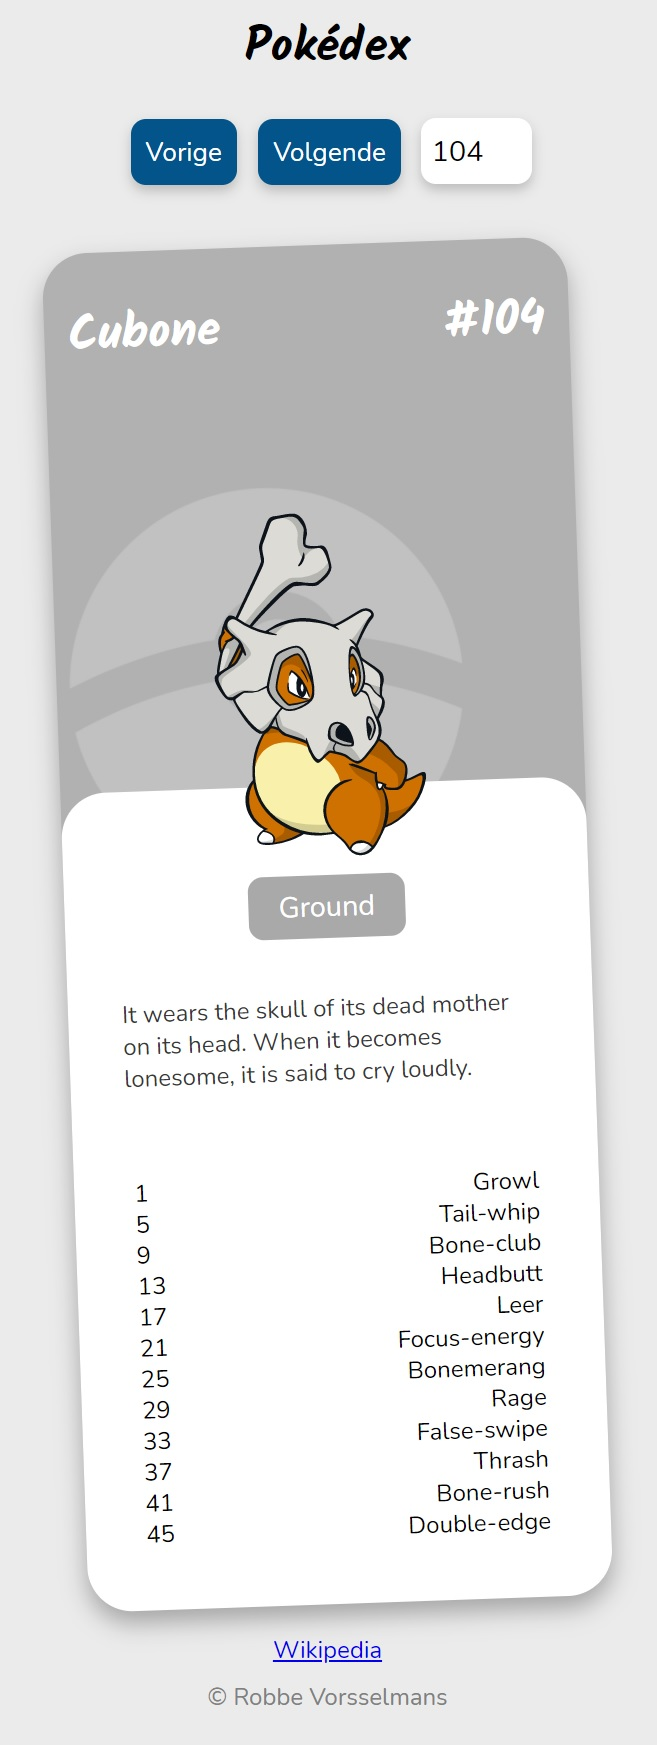
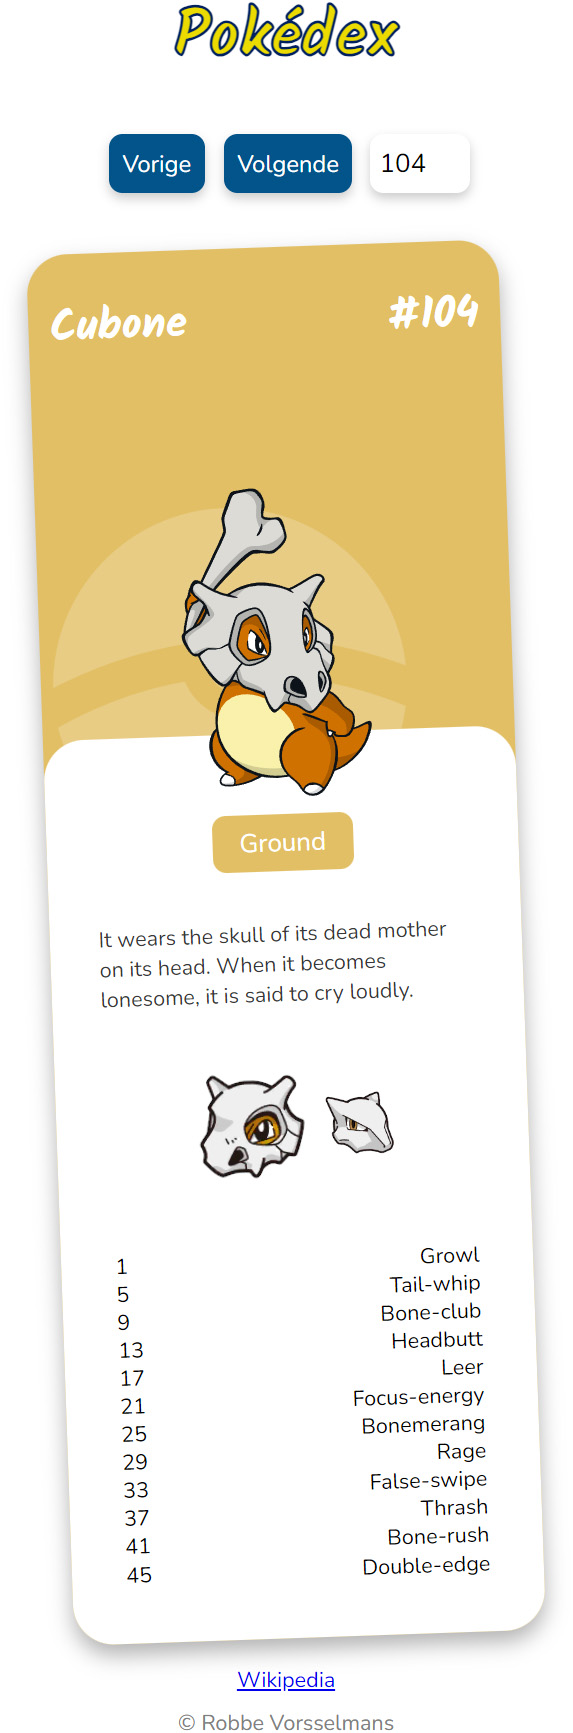
added spirtes for evolution chains

diff --git a/pokemon.js b/pokemon.js
@@ -1,91 +1,153 @@
 let app = new Vue({
-    el: '#vue',
-    name: "Pokemon",
-    data() {
-        return {
-            id: 104,
-            pokemon: null
-        }
+  el: "#vue",
+  name: "Pokemon",
+  data() {
+    return {
+      id: 104,
+      pokemon: null,
+      chain: [],
+      typeColours: {
+        normal: "#A8A77A",
+        fire: "#EE8130",
+        water: "#6390F0",
+        electric: "#F7D02C",
+        grass: "#7AC74C",
+        ice: "#96D9D6",
+        fighting: "#C22E28",
+        poison: "#A33EA1",
+        ground: "#E2BF65",
+        flying: "#A98FF3",
+        psychic: "#F95587",
+        bug: "#A6B91A",
+        rock: "#B6A136",
+        ghost: "#735797",
+        dragon: "#6F35FC",
+        dark: "#705746",
+        steel: "#B7B7CE",
+        fairy: "#D685AD",
+      },
+    };
+  },
+  computed: {
+    name() {
+      if (!this.pokemon) return;
+      const name = this.pokemon.name;
+      return this.capitalize(name) || "Onbekend";
     },
-    computed: {
-        name() {
-            if (!this.pokemon) return
-            const name = this.pokemon.name;
-            return this.capitalize(name) || 'Onbekend'
-        },
-        types() {
-            return this.pokemon && this.pokemon.types.map(t => t.type.name)
-        },
-        type() {
-            return this.pokemon && this.types[0] || 'Onbekend'
-        },
-        height() {
-            if (!this.pokemon) return
-            const dm = this.pokemon.height
-            let str = (dm / 10).toString()
-            str = str.replaceAll(".", ",");
-            str = str + " m"
-            return str
-        },
-        color() {
-            return this.pokemon && this.pokemon.color.name || 'Onbekend'
-        },
-        spriteUrl() {
-            return this.pokemon && this.pokemon.sprites.other.dream_world.front_default || ""
-        },
-        moves() {
-            if (!this.pokemon) return
-            let levelMoves = []
-            let allMoves = this.pokemon.moves
-            allMoves.forEach(move => {
-                const moveFr = move.version_group_details.find(m => m.version_group.name == "firered-leafgreen")
-                if (moveFr && moveFr.level_learned_at > 0) {
-                    levelMoves.push({ level: moveFr.level_learned_at, name: move.move.name })
-                }
-            });
-            // opgave: eerste 5 aanvallen weergeven
-            if (levelMoves.length < 5) {
-                for (let i = levelMoves.length; i < 5; i++) {
-                    levelMoves.push({ level: 99, name: "Onbekend" })
-                }
-            }
-            return levelMoves.sort((a, b) => a.level - b.level)
-        },
-        flavor() {
-            if (!this.pokemon) return
-            let flavor = this.pokemon.flavor_text_entries.find(fl => fl.version.name == "firered" && fl.language.name == "en")
-            return flavor && flavor.flavor_text || "Geen info"
-        }
+    types() {
+      return this.pokemon && this.pokemon.types.map((t) => t.type.name);
     },
-    methods: {
-        async getPokemon(id) {
-            id = Math.min(Math.max(1, id), 649)
-            const url = `https://pokeapi.co/api/v2/pokemon/${id}`;
-            const res = await fetch(url)
-            const pokemon = res.ok && await res.json()
-            console.log('Pokémon data (p):', pokemon);
-            const urlSpec = `https://pokeapi.co/api/v2/pokemon-species/${id}`;
-            const resSpec = await fetch(urlSpec)
-            const species = resSpec.ok && await resSpec.json()
-            this.pokemon = Object.assign(pokemon, species);
-            this.id = id;
+    type() {
+      return (this.pokemon && this.types[0]) || "Onbekend";
+    },
+    height() {
+      if (!this.pokemon) return;
+      const dm = this.pokemon.height;
+      let str = (dm / 10).toString();
+      str = str.replaceAll(".", ",");
+      str = str + " m";
+      return str;
+    },
+    color() {
+      return (this.pokemon && this.pokemon.color.name) || "Onbekend";
+    },
+    spriteUrl() {
+      return (
+        (this.pokemon &&
+          this.pokemon.sprites.other.dream_world.front_default) ||
+        ""
+      );
+    },
+    moves() {
+      if (!this.pokemon) return;
+      let levelMoves = [];
+      let allMoves = this.pokemon.moves;
+      allMoves.forEach((move) => {
+        const moveFr = move.version_group_details.find(
+          (m) => m.version_group.name == "firered-leafgreen"
+        );
+        if (moveFr && moveFr.level_learned_at > 0) {
+          levelMoves.push({
+            level: moveFr.level_learned_at,
+            name: move.move.name,
+          });
+        }
+      });
+      // opgave: eerste 5 aanvallen weergeven
+      if (levelMoves.length < 5) {
+        for (let i = levelMoves.length; i < 5; i++) {
+          levelMoves.push({ level: 99, name: "Onbekend" });
+        }
+      }
+      return levelMoves.sort((a, b) => a.level - b.level);
+    },
+    flavor() {
+      if (!this.pokemon) return;
+      let flavor = this.pokemon.flavor_text_entries.find(
+        (fl) => fl.version.name == "firered" && fl.language.name == "en"
+      );
+      return (flavor && flavor.flavor_text) || "Geen info";
+    },
+    typeColor() {
+      return this.typeColours[this.type] || "#777";
+    },
+  },
+  methods: {
+    async getPokemon(id) {
+      id = Math.min(Math.max(1, id), 649);
+      const url = `https://pokeapi.co/api/v2/pokemon/${id}`;
+      const res = await fetch(url);
+      const pokemon = res.ok && (await res.json());
+      console.log("Pokémon data:", pokemon);
+      const urlSpec = `https://pokeapi.co/api/v2/pokemon-species/${id}`;
+      const resSpec = await fetch(urlSpec);
+      const species = resSpec.ok && (await resSpec.json());
+      this.pokemon = Object.assign(pokemon, species);
+      this.id = id;
+      this.chain = await this.getChain(pokemon);
 
-            const card = document.querySelector('.card')
-            card && card.style.setProperty('--card-bg', pokemon.color.name)
-        },
-        capitalize(word) {
-            return word && word[0].toUpperCase() + word.slice(1);
-        },
-        next() {
-            this.id++;
-            this.getPokemon(this.id);
-        },
-        prev() {
-            this.id--;
-            this.getPokemon(this.id);
-        }
+      const card = document.querySelector(".card");
+      card && card.style.setProperty("--card-bg", pokemon.color.name);
     },
-    mounted() {
-        this.getPokemon(this.id)
-    }
-})
+    async getChain(pokemon) {
+      const getIndex = (url) => {
+        const numbers = url.match(/\d+/g);
+        if (numbers && numbers.length > 0) {
+          return parseInt(numbers[numbers.length - 1]);
+        }
+        return null;
+      };
+      const chainUrl = pokemon.evolution_chain?.url;
+      const resChain = await fetch(chainUrl);
+      let chainObj = resChain.ok && (await resChain.json())?.chain;
+      let id = getIndex(chainObj.species.url);
+      const chain = [id];
+      while (chainObj.evolves_to.length > 0) {
+        // for necessary for eevee
+        for (let i = 0; i < chainObj.evolves_to.length; i++) {
+          evo = chainObj.evolves_to[i];
+          chain.push(getIndex(evo.species.url));
+        }
+        chainObj = chainObj.evolves_to[0];
+      }
+      return chain.filter((id) => id <= 151);
+    },
+    capitalize(word) {
+      return word && word[0].toUpperCase() + word.slice(1);
+    },
+    next() {
+      this.id++;
+      this.getPokemon(this.id);
+    },
+    prev() {
+      this.id--;
+      this.getPokemon(this.id);
+    },
+    getTypeColor(type) {
+      return this.typeColours[type] || "#777";
+    },
+  },
+  mounted() {
+    this.getPokemon(this.id);
+  },
+});

diff --git a/index.html b/index.html
@@ -1,60 +1,63 @@
 <!DOCTYPE html>
 <html lang="en">
-
-<head>
-    <meta charset="UTF-8">
-    <meta name="viewport" content="width=device-width, initial-scale=1.0">
+  <head>
+    <meta charset="UTF-8" />
+    <meta name="viewport" content="width=device-width, initial-scale=1.0" />
     <title>Pokédex</title>
-    <p>Updated using Visual Code</p>
     <script src="https://cdn.jsdelivr.net/npm/vue@2/dist/vue.js"></script>
     <script defer src="pokemon.js"></script>
-    <link rel="stylesheet" href="style.css">
-    <link rel="preconnect" href="https://fonts.gstatic.com">
-    <link href="https://fonts.googleapis.com/css2?family=Kalam:wght@400;700&family=Nunito:wght@200;400&display=swap" rel="stylesheet">
-</head>
+    <link rel="stylesheet" href="style.css" />
+    <link rel="preconnect" href="https://fonts.gstatic.com" />
+    <link
+      href="https://fonts.googleapis.com/css2?family=Kalam:wght@400;700&family=Nunito:wght@200;400&display=swap"
+      rel="stylesheet"
+    />
+  </head>
 
-<body>
+  <body>
     <div id="vue">
-        <header>
-            <h1>Pokédex</h1>
-            <nav class="bar">
-                <button @click="prev">Vorige</button>
-                <button @click="next">Volgende</button>
-                <input type="number" v-model="id" @input="getPokemon(id)">
-            </nav>
-        </header>
-        <main class="card">
-            <div class="container">
-                <h2>
-                    <span>{{ name }}</span>
-                    <span style="float: right;">#{{String(id).padStart(3, '0')}}</span>
-                </h2>
-                <img :src="spriteUrl" :alt="name" class="sprite">
-            </div>
-            <div class="info">
-                <div class="types">
-                    <span v-for="type in types">
-                        {{capitalize(type)}}
-                    </span>
-                </div>
-                <div class="flavor">
-                    {{flavor}}
-                </div>
-                <div class="moves">
-                    <div v-for="m in moves">
-                        <span>{{m.level}}</span>
-                        <span>{{capitalize(m.name)}}</span>
-                    </div>
-                </div>
-            </div>
-        </main>
-        <footer>
-            <a href="https://en.wikipedia.org/wiki/Pok%C3%A9mon">
-                Wikipedia</a>
-            <div class="copy">© Robbe Vorsselmans</div>
-        </footer>
-        <!-- <button @click="getPokemon(id)">Zoek Pokemon</button> -->
-    </div>
-</body>
+      <header>
+        <h1>Pokédex</h1>
+        <nav class="bar">
+          <button @click="prev">Vorige</button>
+          <button @click="next">Volgende</button>
+          <input type="number" v-model="id" @input="getPokemon(id)" />
+        </nav>
+      </header>
+      <main class="card" :style="'background-color:' + typeColor">
+        <div class="container">
+          <h2>
+            <span>{{ name }}</span>
+            <span style="float: right">#{{String(id).padStart(3, '0')}}</span>
+          </h2>
+          <img :src="spriteUrl" :alt="name" class="sprite" />
+        </div>
+        <div class="info">
+          <div class="types">
+            <span
+              v-for="type in types"
+              :style="'background-color:' + getTypeColor(type)"
+            >
+              {{capitalize(type)}}
+            </span>
+          </div>
+          <div class="flavor">{{flavor}}</div>
 
+          <div class="evolutions" v-if="chain.length > 1 && id <=151">
+            <img v-for="cId in chain" :src="`./images/Head-${String(cId).padStart(3,'0')}.png`" class="head" :class="{bigHead : cId == id}"/>
+          </div>
+          <div class="moves">
+            <div v-for="m in moves">
+              <span>{{m.level}}</span>
+              <span>{{capitalize(m.name)}}</span>
+            </div>
+          </div>
+        </div>
+      </main>
+      <footer>
+        <a href="https://en.wikipedia.org/wiki/Pok%C3%A9mon"> Wikipedia</a>
+        <div class="copy">© Robbe Vorsselmans</div>
+      </footer>
+    </div>
+  </body>
 </html>

diff --git a/style.css b/style.css
@@ -107,6 +107,22 @@ h1 {
     font-size: 1.2rem;
 }
 
+.evolutions {
+    display: flex;
+    justify-content: center;
+    align-items: center;
+    margin: 20px 0;
+}
+
+.head {
+    width: 60px;
+    height: 60px;
+}
+.bigHead {
+    width: 100px;
+    height: 100px
+}
+
 input {
     height: 30px;
     width: 60px;
